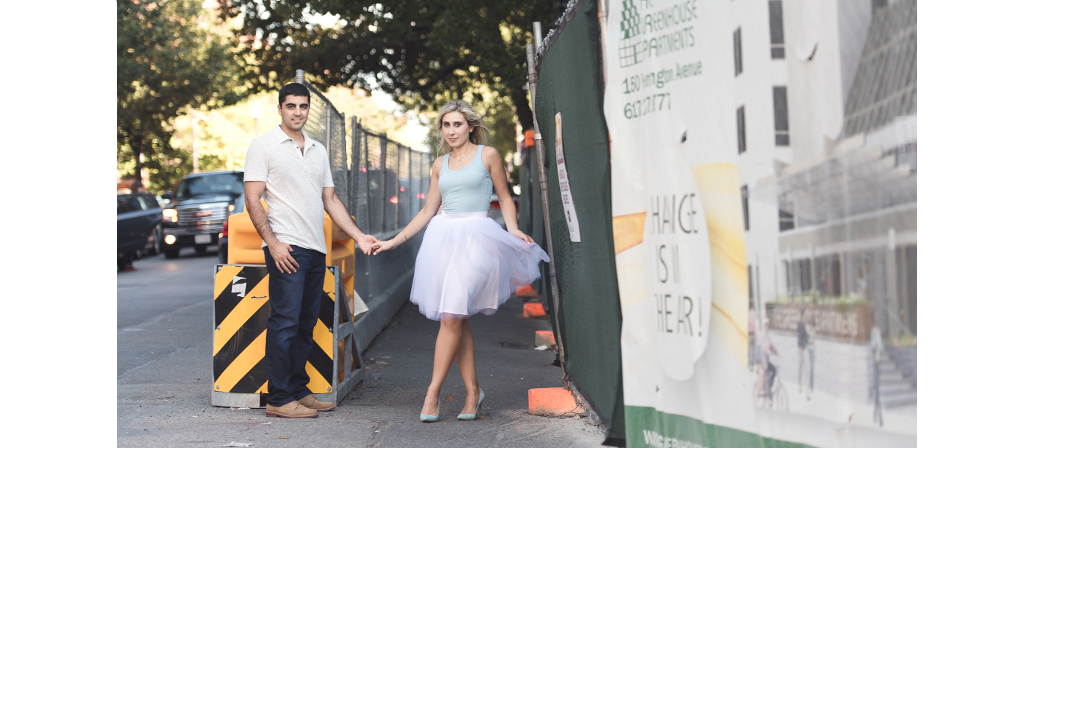
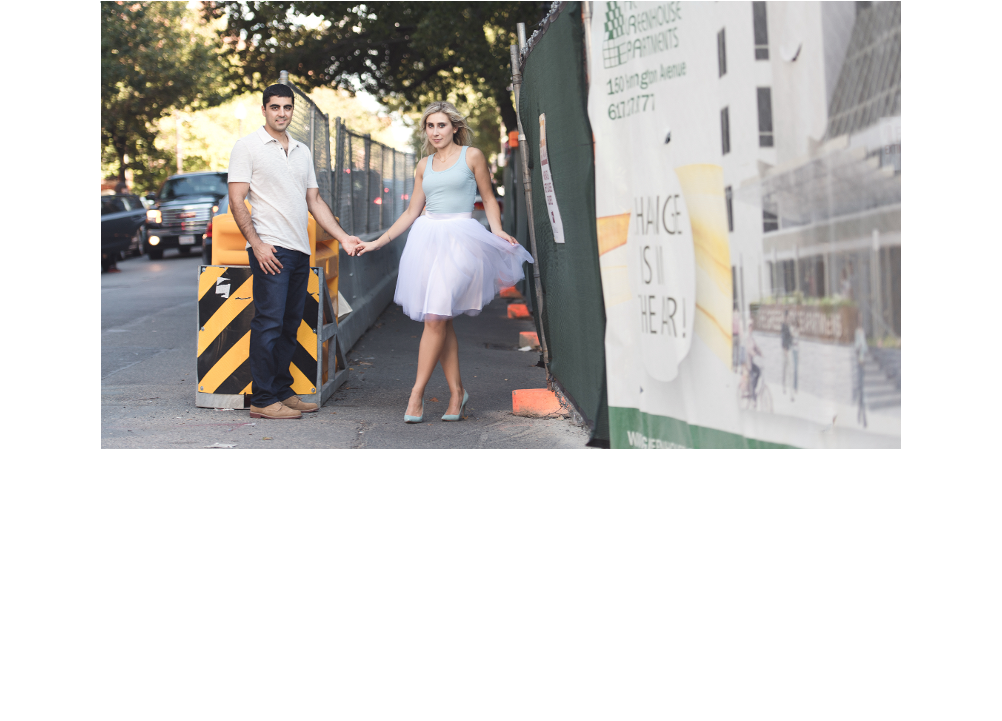
test update welcome and registry pics

Changed region(s): [[0.0928, 0.0, 0.8972, 0.6417], [0.3403, 0.5806, 0.3713, 0.6111]]

diff --git a/test.css b/test.css
@@ -109,7 +109,7 @@ body {
   border-left: 80px solid white;
   border-right: 80px solid white;
     /* The image used */
-    background-image: url("construction_withwhite.png");
+    background-image: url("construction_withwhite2.png");
     /* Set a specific height */
 	min-height: 75vh;
 	width: auto;
@@ -180,7 +180,7 @@ body {
 	border-left: 60px solid white;
 	border-right: 60px solid white;
 	/* the image used */
-	background-image: url("butts.jpg");
+	background-image: url("registry_withwhite.jpg");
 	min-height: 75vh;
     /* Create the parallax scrolling effect */
     background-attachment: fixed;
